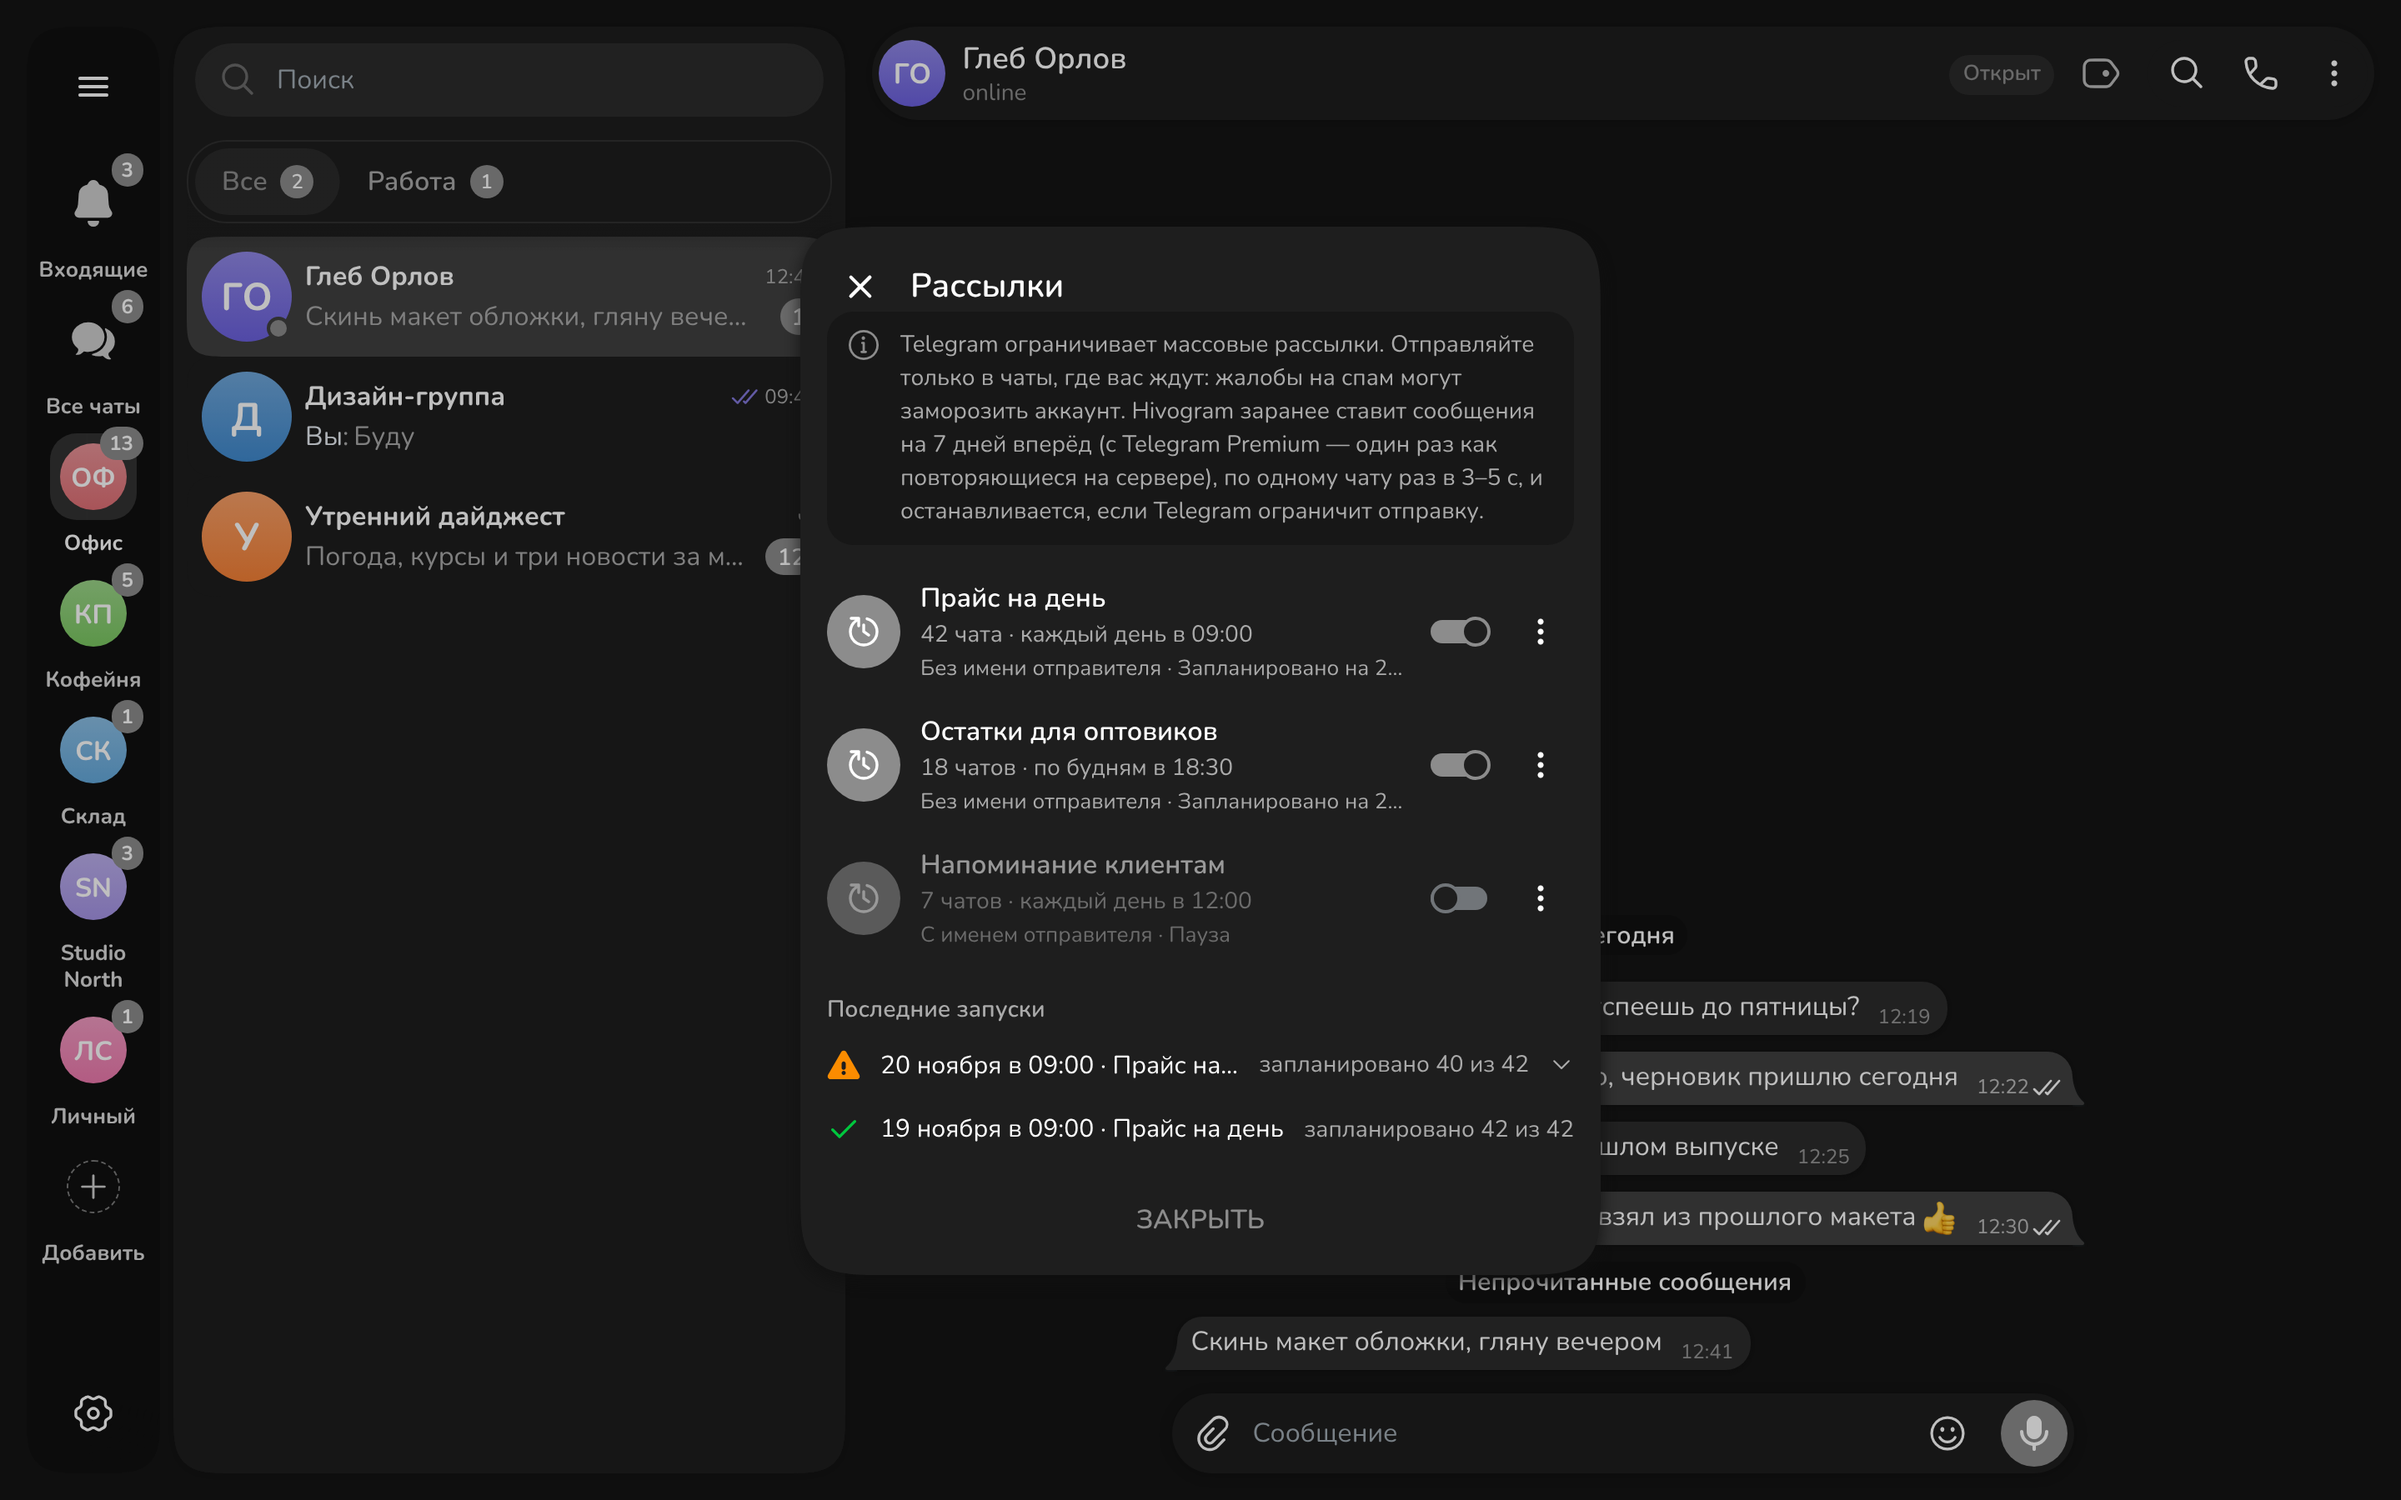
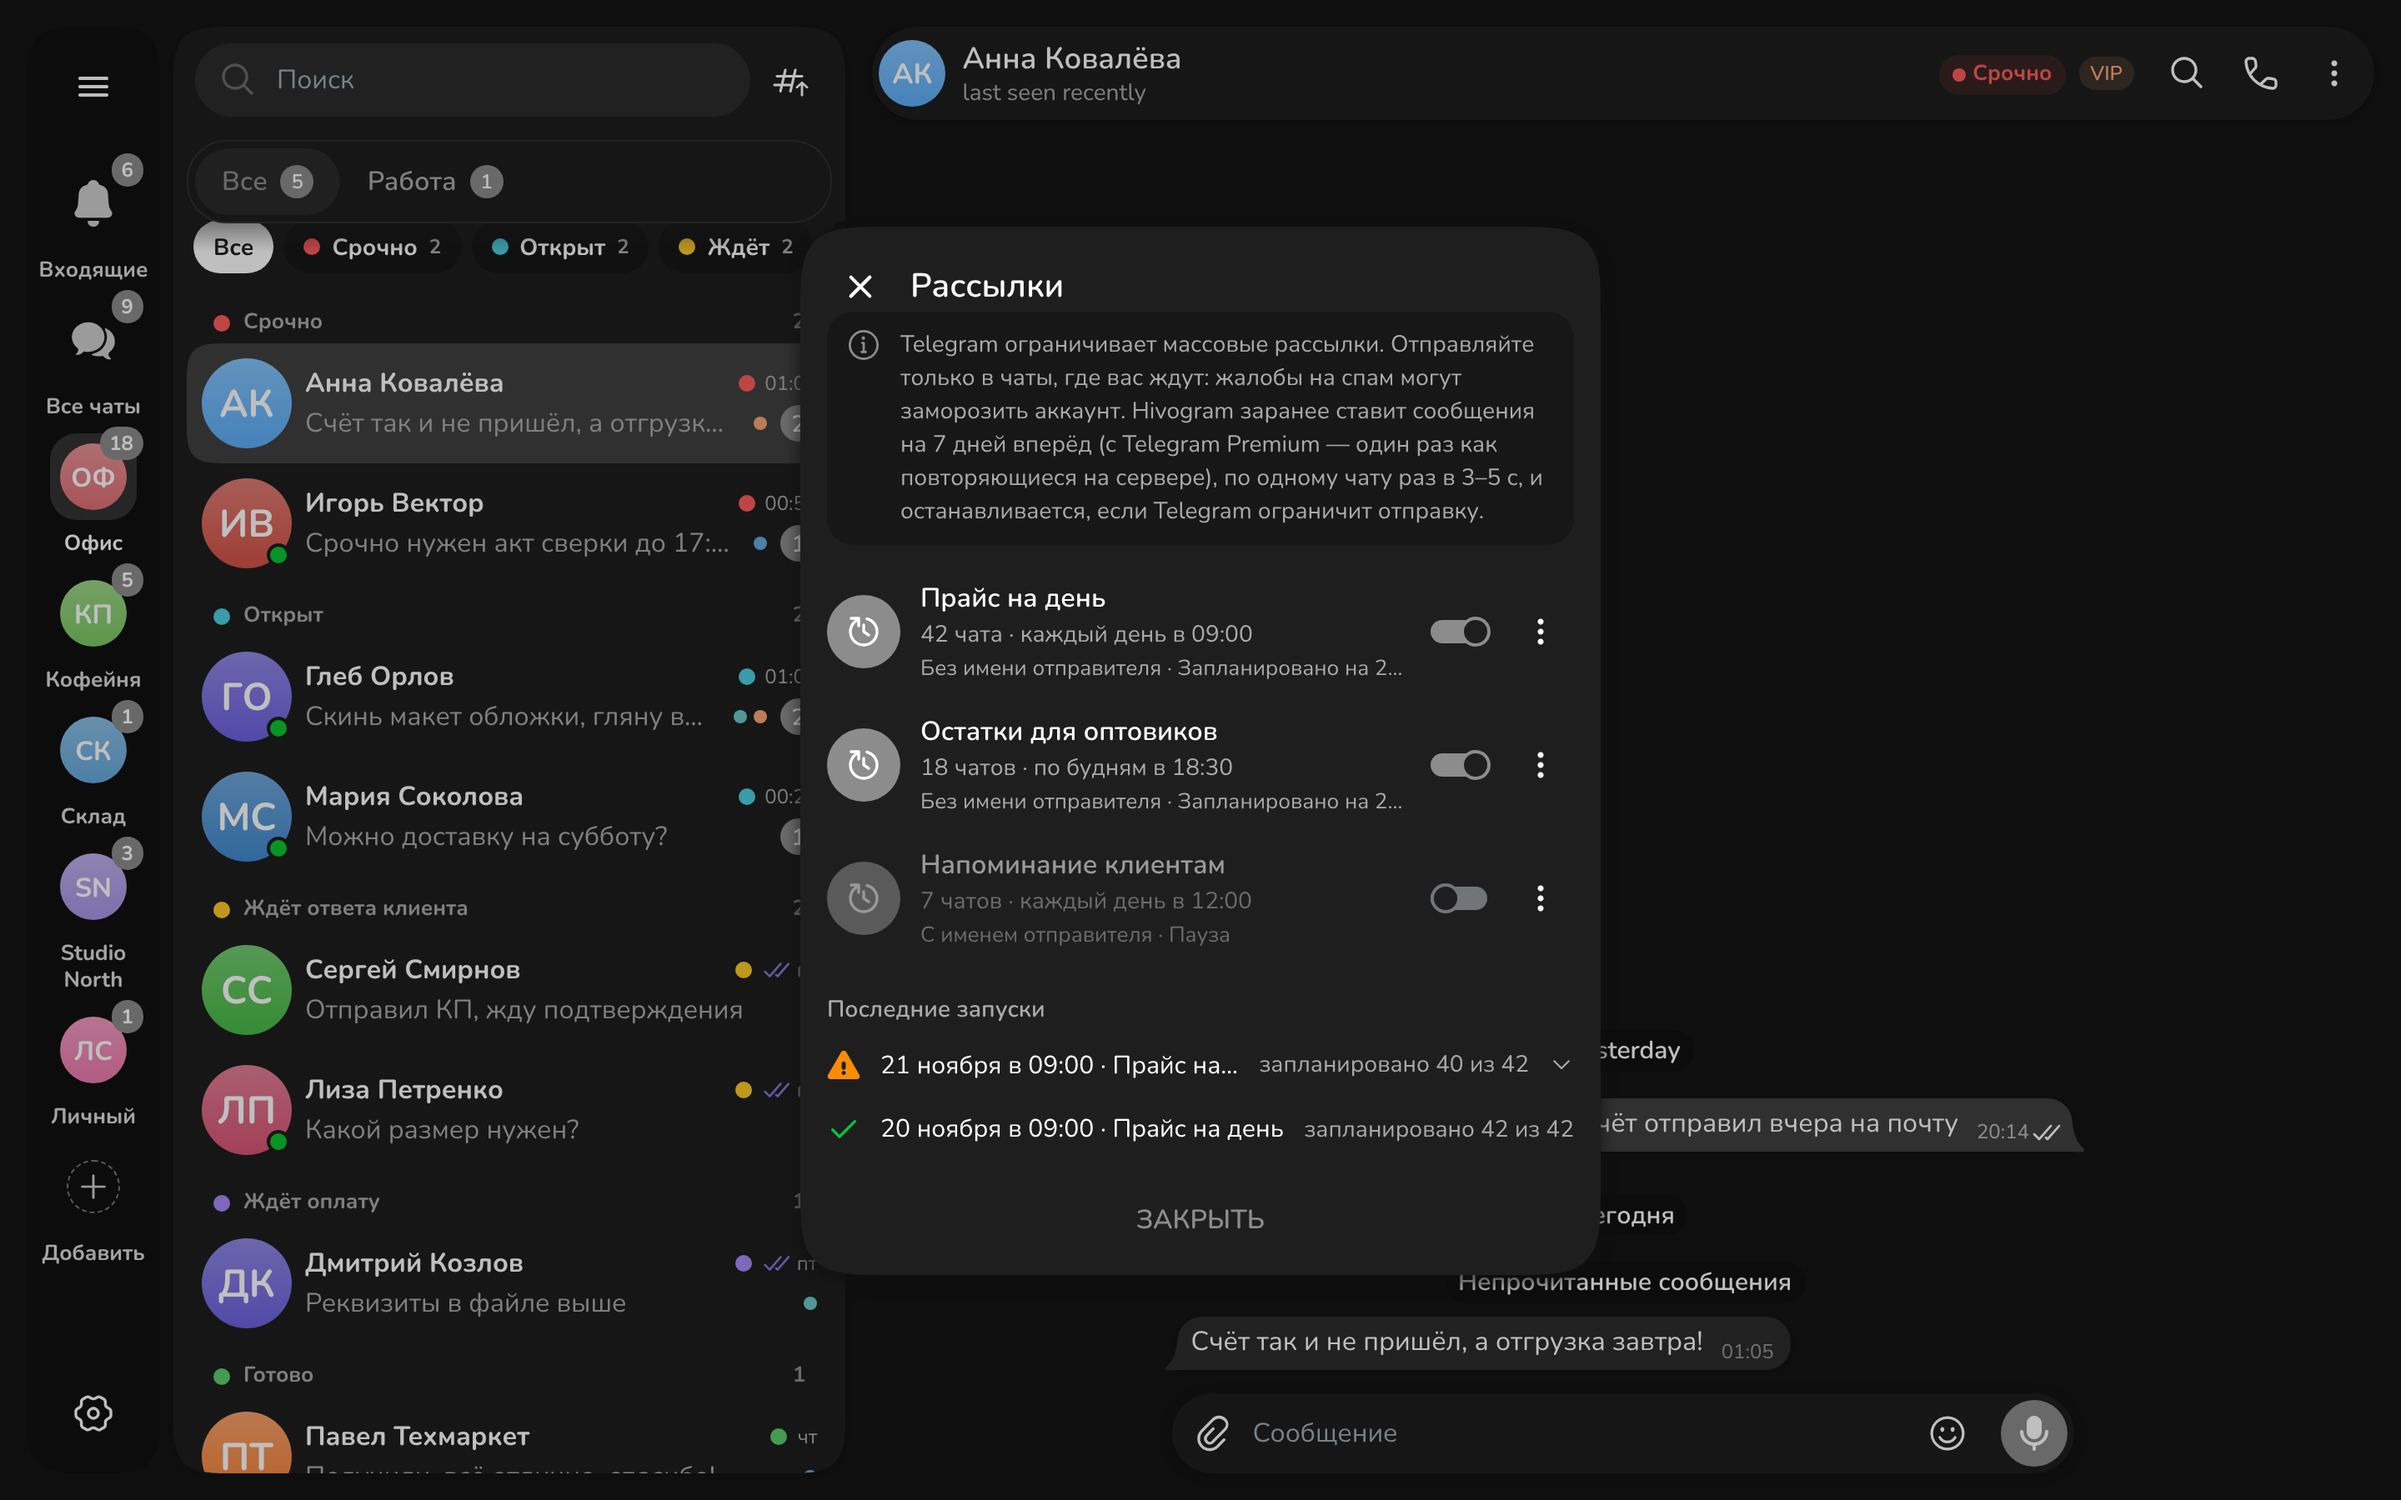
README: «Статусы диалогов» section, screenshots retaken in demo
Claude-Session: https://claude.ai/code/session_01CRM8nHM6NMACMi5G7AWNKK

diff --git a/README.md b/README.md
@@ -128,13 +128,44 @@
 
 - **Шаблоны ответов.** Общая библиотека готовых ответов на все аккаунты или только на выбранные. Набрал `/` в поле ввода, выбрал шаблон. Подставляются имя собеседника, аккаунт, дата и время. Любое сообщение можно сохранить как шаблон.
 - **Метки и заметки.** Цветные ярлыки на любых чатах («VIP», «Оплачено», «Новый») и заметка в профиле собеседника. Видны только вам, по меткам можно фильтровать.
-- **Статусы переписки.** «Открыт», «Ждёт ответа клиента», «Готово». Ставятся сами: написал клиент — «Открыт», ответили вы — «Ждёт ответа». Закрытые чаты уходят из основной ленты.
+- **Статусы переписки.** «Срочно», «Открыт», «Ждёт ответа клиента», «Готово» и любые свои. Ставятся сами: написал клиент — «Открыт», ответили вы — «Ждёт ответа». Подробнее ниже, в «Статусы диалогов».
 - **Напоминания.** «Напомнить через 30 минут, час, завтра в 9:00» — чат всплывёт снова в нужный момент.
 - **Время ответа.** На карточке видно, сколько клиент уже ждёт, просроченные подсвечены красным. В настройках статистика по каждому аккаунту за неделю.
 - **Массовые действия.** «Прочитать всё» и «Архивировать всё» для аккаунта или папки в один клик.
 - **Telegram Business пачкой.** Часы работы, приветствие и автоответ «нет на месте» задаются сразу для всех выбранных Premium-аккаунтов.
 - **Перевод без Premium.** Перевод сообщений и целых чатов, можно подключить свой DeepL, Google или LibreTranslate.
 - **ИИ-помощник** (включается по желанию). «Черновик ответа» пишет вариант ответа в поле ввода, «Кратко о чате» пересказывает длинную переписку. Работает с вашим ключом, отправка только по клику.
+
+## Статусы диалогов
+
+Каждый диалог с клиентом получает статус, и список чатов сам показывает, кому ответить первым.
+
+- **Свои статусы и цвета.** «Срочно», «Открыт», «Ждёт ответа клиента», «Готово» есть сразу, можно добавить свои («Ждёт оплату», «Доставка») и переименовать, перекрасить, удалить любые. У статуса есть короткое слово для списка чатов.
+- **Сортировка по важности ответа.** Порядок статусов в редакторе и есть важность: сверху «Срочно», внизу «Готово». Ещё два режима: «По времени», как в обычном Telegram, и «Сначала без ответа».
+- **Список, разбитый по статусам.** Чаты идут группами с заголовками «Срочно · 2», «Открыт · 2»… Над списком фильтр: «Все» или один статус.
+- **Цветной значок у времени.** Статус виден прямо в строке чата: кружок нужного цвета или короткое слово, на выбор. Рядом кружки меток контакта («VIP», «опт»). Всё это включается и выключается в меню сортировки.
+- **Меню статуса в шапке чата.** Выбрать статус, добавить новый, поставить метки и напоминание. Метки контакта видны и в шапке диалога.
+- **Автостатусы.** Написал клиент — «Открыт», ответили вы — «Ждёт ответа клиента». Можно включить, чтобы новое сообщение клиента сразу ставило «Срочно». Свои статусы автоматика не трогает.
+
+<table>
+<tr>
+<td width="50%" align="center" valign="top"><b>Список по статусам</b><br><img src="docs/screens/desktop-status-list.png" width="100%" alt="Список чатов, разбитый по статусам"></td>
+<td width="50%" align="center" valign="top"><b>Сортировка и вид</b><br><img src="docs/screens/desktop-status-sort.png" width="100%" alt="Меню сортировки"></td>
+</tr>
+<tr>
+<td width="50%" align="center" valign="top"><b>Статус и метки чата</b><br><img src="docs/screens/desktop-status-menu.png" width="100%" alt="Меню статуса в шапке чата"></td>
+<td width="50%" align="center" valign="top"><b>Редактор статусов</b><br><img src="docs/screens/desktop-status-editor.png" width="100%" alt="Редактор статусов"></td>
+</tr>
+</table>
+
+<table>
+<tr>
+<td width="25%" align="center" valign="top"><b>Список</b><br><img src="docs/screens/iphone-status-list.png" width="100%" alt="Телефон: список по статусам"></td>
+<td width="25%" align="center" valign="top"><b>Сортировка</b><br><img src="docs/screens/iphone-status-sort.png" width="100%" alt="Телефон: сортировка"></td>
+<td width="25%" align="center" valign="top"><b>Статус чата</b><br><img src="docs/screens/iphone-status-menu.png" width="100%" alt="Телефон: статус чата"></td>
+<td width="25%" align="center" valign="top"><b>Редактор</b><br><img src="docs/screens/iphone-status-editor.png" width="100%" alt="Телефон: редактор статусов"></td>
+</tr>
+</table>
 
 ## Рассылки по расписанию
 
